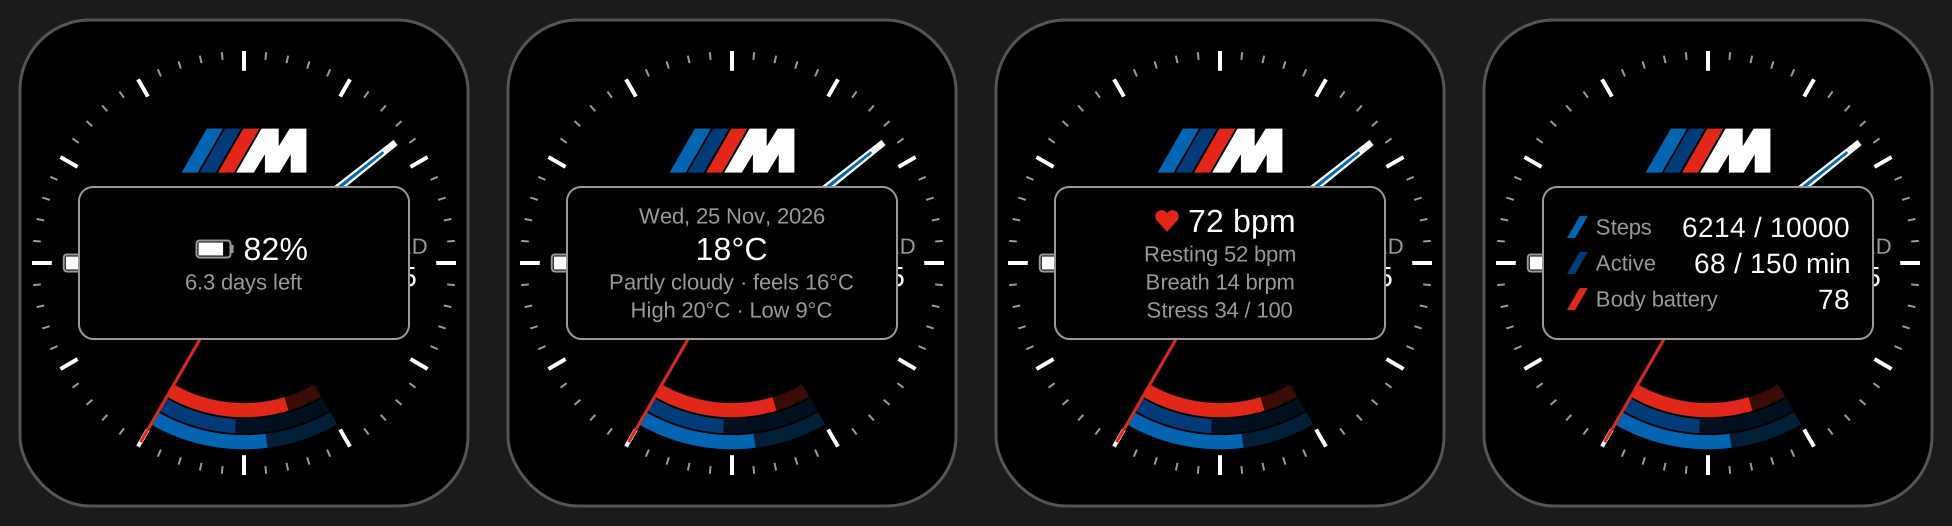
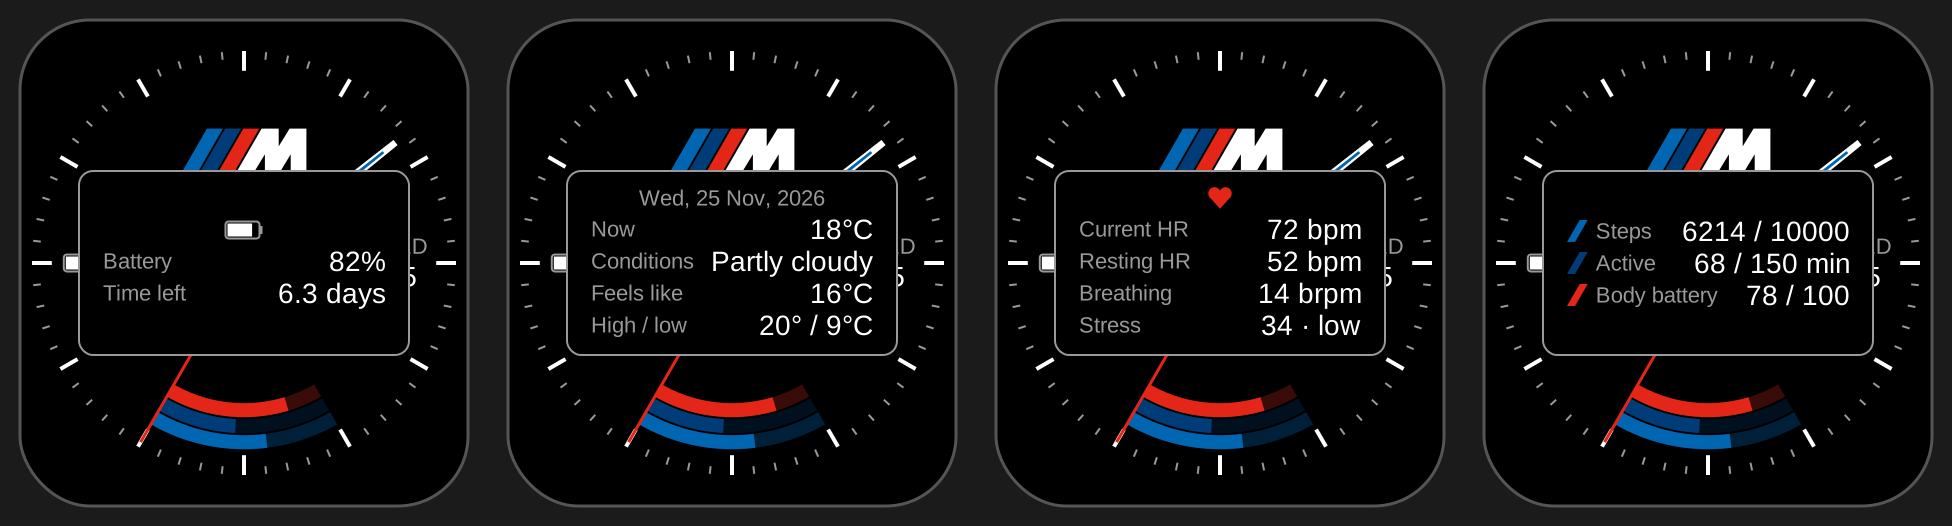
Cards: one layout for all (header + label/value rows, units on every value), stress with its band
Claude-Session: https://claude.ai/code/session_01CEiR5mX4CwQUtKoZKTxSUA

diff --git a/tools/wireframes.py b/tools/wireframes.py
@@ -61,7 +61,6 @@ BATT_W, BATT_H, BATT_R, BATT_TERM_W, BATT_TERM_H, BATT_PAD = (num("BATT_W"), num
                                                                 num("BATT_PAD"))
 CARD_W, CARD_H, CARD_R, CARD_PAD = num("CARD_W"), num("CARD_H"), num("CARD_R"), num("CARD_PAD")
 CARD_LINE_GAP, CARD_ROW_PITCH, CARD_HEART_S = num("CARD_LINE_GAP"), num("CARD_ROW_PITCH"), num("CARD_HEART_S")
-CARD_ICON_GAP = num("CARD_ICON_GAP")
 CARD_SWATCH_H, CARD_SWATCH_GAP = num("CARD_SWATCH_H"), num("CARD_SWATCH_GAP")
 WINDOW_DATE_DX = num("WINDOW_DATE_DX")
 TOUCH_R, TOUCH_ARC_ANGLE = num("TOUCH_R"), num("TOUCH_ARC_ANGLE")
@@ -187,54 +186,44 @@ def draw_battery_icon(s, x, y, pct):
 
 
 def draw_card(s, kind):
-    """Mirror of Cards.drawCard(): a quick card over the dial, with example values."""
-    ch = CARD_H                                           # every card is the same size
+    """Mirror of Cards.drawCard(): a quick card over the dial, with example values. Every card is the
+    same size: a header (an icon or the date) over rows of label (grey, left) and value (white, right)."""
+    ch = CARD_H
     left, top = CX - CARD_W / 2, CY - ch / 2
     s.add('<rect x="%.1f" y="%.1f" width="%d" height="%d" rx="%d" fill="%s" stroke="%s" stroke-width="2"/>'
           % (left, top, CARD_W, ch, CARD_R, BLACK, GREY))
-    if kind == "activity":
-        for i, (n, v) in enumerate([("Steps", "6214 / 10000"), ("Active", "68 / 150 min"), ("Body battery", "78")]):
-            y = top + ch / 2 + (i - 1) * CARD_ROW_PITCH
-            k = CARD_SWATCH_H / 99.0                      # Logo.stripePoints(0, ...): the M's first stripe
-            sx0, sy0 = left + CARD_PAD, y - CARD_SWATCH_H / 2
-            s.poly([(sx0 + 57 * k, sy0), (sx0 + 93 * k, sy0), (sx0 + 36 * k, sy0 + 99 * k), (sx0, sy0 + 99 * k)],
-                   [BLUE, NAVY, RED][i])                  # each row wears its ring's colour
-            s.text(sx0 + 93 * k + CARD_SWATCH_GAP, y, n, "label", GREY, "start")
-            s.text(left + CARD_W - CARD_PAD, y, v, "value", WHITE, "end")
-        return
-    above, big, below = {
-        "battery": ("", "82%", ["6.3 days left"]),
-        "weather": ("Wed, 25 Nov, 2026", "18&#176;C",
-                    ["Partly cloudy &#183; feels 16&#176;C", "High 20&#176;C &#183; Low 9&#176;C"]),
-        "hr": ("", "72 bpm", ["Resting 52 bpm", "Breath 14 brpm", "Stress 34 / 100"]),
+    header, rows = {
+        "battery": ("@battery", [("Battery", "82%"), ("Time left", "6.3 days")]),
+        "weather": ("Wed, 25 Nov, 2026", [("Now", "18&#176;C"), ("Conditions", "Partly cloudy"),
+                                           ("Feels like", "16&#176;C"), ("High / low", "20&#176; / 9&#176;C")]),
+        "hr": ("@heart", [("Current HR", "72 bpm"), ("Resting HR", "52 bpm"), ("Breathing", "14 brpm"),
+                          ("Stress", "34 &#183; low")]),
+        "activity": ("", [("Steps", "6214 / 10000"), ("Active", "68 / 150 min"), ("Body battery", "78 / 100")]),
     }[kind]
-    hl, ht = FONT_PX["label"], FONT_PX["title"]           # line heights: the font sizes (getFontHeight)
-    total = ht + len(below) * (hl + CARD_LINE_GAP) + (hl + CARD_LINE_GAP if above else 0)
+    hl, hv = FONT_PX["label"], FONT_PX["value"]           # line heights: the font sizes (getFontHeight)
+    header_h = hl + CARD_LINE_GAP if header else 0
+    total = header_h + (len(rows) - 1) * CARD_ROW_PITCH + hv
     y = top + (ch - total) / 2
-    if above:
-        s.text(CX, y + hl / 2, above, "label", GREY)
-        y += hl + CARD_LINE_GAP
-    by = y + ht / 2                                       # the big line's centre
-    if kind in ("battery", "hr"):                         # the icon beside the number, the pair centred
-        iw = (BATT_W + BATT_TERM_W) if kind == "battery" else CARD_HEART_S
-        tw = len(big.replace("&#176;", "-")) * FONT_PX["title"] * 0.5       # rough text width
-        x0 = CX - (iw + CARD_ICON_GAP + tw) / 2
-        if kind == "battery":
-            draw_battery_icon(s, x0 + BATT_W / 2, by, 82)
-        else:
-            hs, hy = CARD_HEART_S, by - CARD_HEART_S * 0.06
-            hx = x0 + iw / 2
-            s.circle(hx - hs * .25, hy - hs * .15, hs * .28, RED)
-            s.circle(hx + hs * .25, hy - hs * .15, hs * .28, RED)
-            s.poly([(hx - hs * .51, hy - hs * .02), (hx + hs * .51, hy - hs * .02), (hx, hy + hs * .55)], RED)
-        s.text(x0 + iw + CARD_ICON_GAP, by, big, "title", WHITE, "start")
-    else:
-        s.text(CX, by, big, "title", WHITE)
-    y += ht
-    for line in below:
-        y += CARD_LINE_GAP
-        s.text(CX, y + hl / 2, line, "label", GREY)
-        y += hl
+    if header == "@battery":
+        draw_battery_icon(s, CX - (BATT_W + BATT_TERM_W) / 2 + BATT_W / 2, y + hl / 2, 82)
+    elif header == "@heart":
+        hs, hy = CARD_HEART_S, y + hl / 2 - CARD_HEART_S * 0.06
+        s.circle(CX - hs * .25, hy - hs * .15, hs * .28, RED)
+        s.circle(CX + hs * .25, hy - hs * .15, hs * .28, RED)
+        s.poly([(CX - hs * .51, hy - hs * .02), (CX + hs * .51, hy - hs * .02), (CX, hy + hs * .55)], RED)
+    elif header:
+        s.text(CX, y + hl / 2, header, "label", GREY)
+    y += header_h
+    for i, (n, v) in enumerate(rows):
+        ry = y + hv / 2 + i * CARD_ROW_PITCH
+        lx = left + CARD_PAD
+        if kind == "activity":                            # a slanted M stripe in the ring's colour
+            k = CARD_SWATCH_H / 99.0                      # Logo.stripePoints(0, ...): the M's first stripe
+            s.poly([(lx + 57 * k, ry - CARD_SWATCH_H / 2), (lx + 93 * k, ry - CARD_SWATCH_H / 2),
+                    (lx + 36 * k, ry + CARD_SWATCH_H / 2), (lx, ry + CARD_SWATCH_H / 2)], [BLUE, NAVY, RED][i])
+            lx += 93 * k + CARD_SWATCH_GAP
+        s.text(lx, ry, n, "label", GREY, "start")
+        s.text(left + CARD_W - CARD_PAD, ry, v, "value", WHITE, "end")
 
 
 def dial_into(s, ox, oy, zones=False, card=None):
@@ -300,7 +289,7 @@ def tap_zones():
     s.text(x0, 40, "Touch targets", "title", WHITE, "start")
     rows = [("1", ZONE_COLORS[1], "Date (3 o'clock)", "weather card: day and date, temperature, conditions, high and low"),
             ("2", ZONE_COLORS[2], "Battery (9 o'clock)", "battery card: percentage and days left"),
-            ("3", ZONE_COLORS[3], "Roundel (centre)", "heart rate card: bpm, resting, breathing, stress"),
+            ("3", ZONE_COLORS[3], "Roundel (centre)", "heart rate card: current and resting HR, breathing, stress"),
             ("4", ZONE_COLORS[4], "Rings (bottom)", "activity card: steps, active minutes, body battery")]
     for i, (n, c, name, what) in enumerate(rows):
         y = 90 + i * 70

diff --git a/README.md b/README.md
@@ -31,14 +31,18 @@ simulator screenshots. They are generated from `source/Theme.mc` by
   3 o'clock, and the watch battery at 9 o'clock as a simple icon that empties as the battery
   drains (red below 20%). The temperature is not on the dial.
 - Quick cards. Hold the date, battery, roundel or rings and a card appears over the dial. Every
-  card is the same size, with its content centred. The date shows the weather: the day and date (`Wed, 25 Sep, 2026`), the
-  temperature, conditions and feels-like, and the day's high and low. The battery shows
-  its percentage and days left, with the dial's battery icon beside the number. The roundel shows heart rate with a red heart
-  beside the number and four lines: bpm, resting rate (bpm), breathing rate (brpm) and stress (/ 100); the
-  rings show steps, active minutes and body battery, each row marked with a slanted M stripe in its
-  ring's colour. The weather card has the date above its number (with units on every temperature), and the
-  activity rows carry their ring's colour: no card has a text title. Touch anywhere to dismiss a card; it also goes after four seconds. The
-  temperature is not on the dial: the date is the way to the weather.
+  card has the same size and layout: a small header (the dial's battery icon, a red heart, or for
+  the weather the day and date) over rows of grey label on the left and white value on the right.
+  Every value has its unit.
+  - Date: `Now`, `Conditions`, `Feels like`, `High / low` (the weather, under `Wed, 25 Sep, 2026`).
+  - Battery: `Battery` (%) and `Time left` (days), plus `Status: Charging` when charging.
+  - Roundel: `Current HR` and `Resting HR` (bpm), `Breathing` (brpm) and `Stress` (a 0 to 100 score
+    with its band: resting, low, medium, high).
+  - Rings: `Steps`, `Active` (minutes this week) and `Body battery` (/ 100), each row marked with a
+    slanted M stripe in its ring's colour.
+
+  Touch anywhere to dismiss a card; it also goes after four seconds. The temperature is not on the
+  dial: the date is the way to the weather.
 
 **Why a hold, and why no pages.** Garmin's `WatchFaceDelegate` documents only `onPress` (touch and
 hold). A plain tap and a swipe are never delivered to a watch face, and the simulator sends only
@@ -135,7 +139,7 @@ vary slightly.
 ## Tests
 
 The logic that does not need the watch is split into small modules (`Geometry`, `Logo`, `Stats`,
-`Units`, `Theme`) and covered by Connect IQ unit tests in `source/tests/`: 22 tests for the touch
+`Units`, `Theme`) and covered by Connect IQ unit tests in `source/tests/`: 23 tests for the touch
 hit-testing, the badge geometry, number formatting, the unit conversion and the theme mappings.
 Drawing code and anything that reads live watch data is not tested.
 
